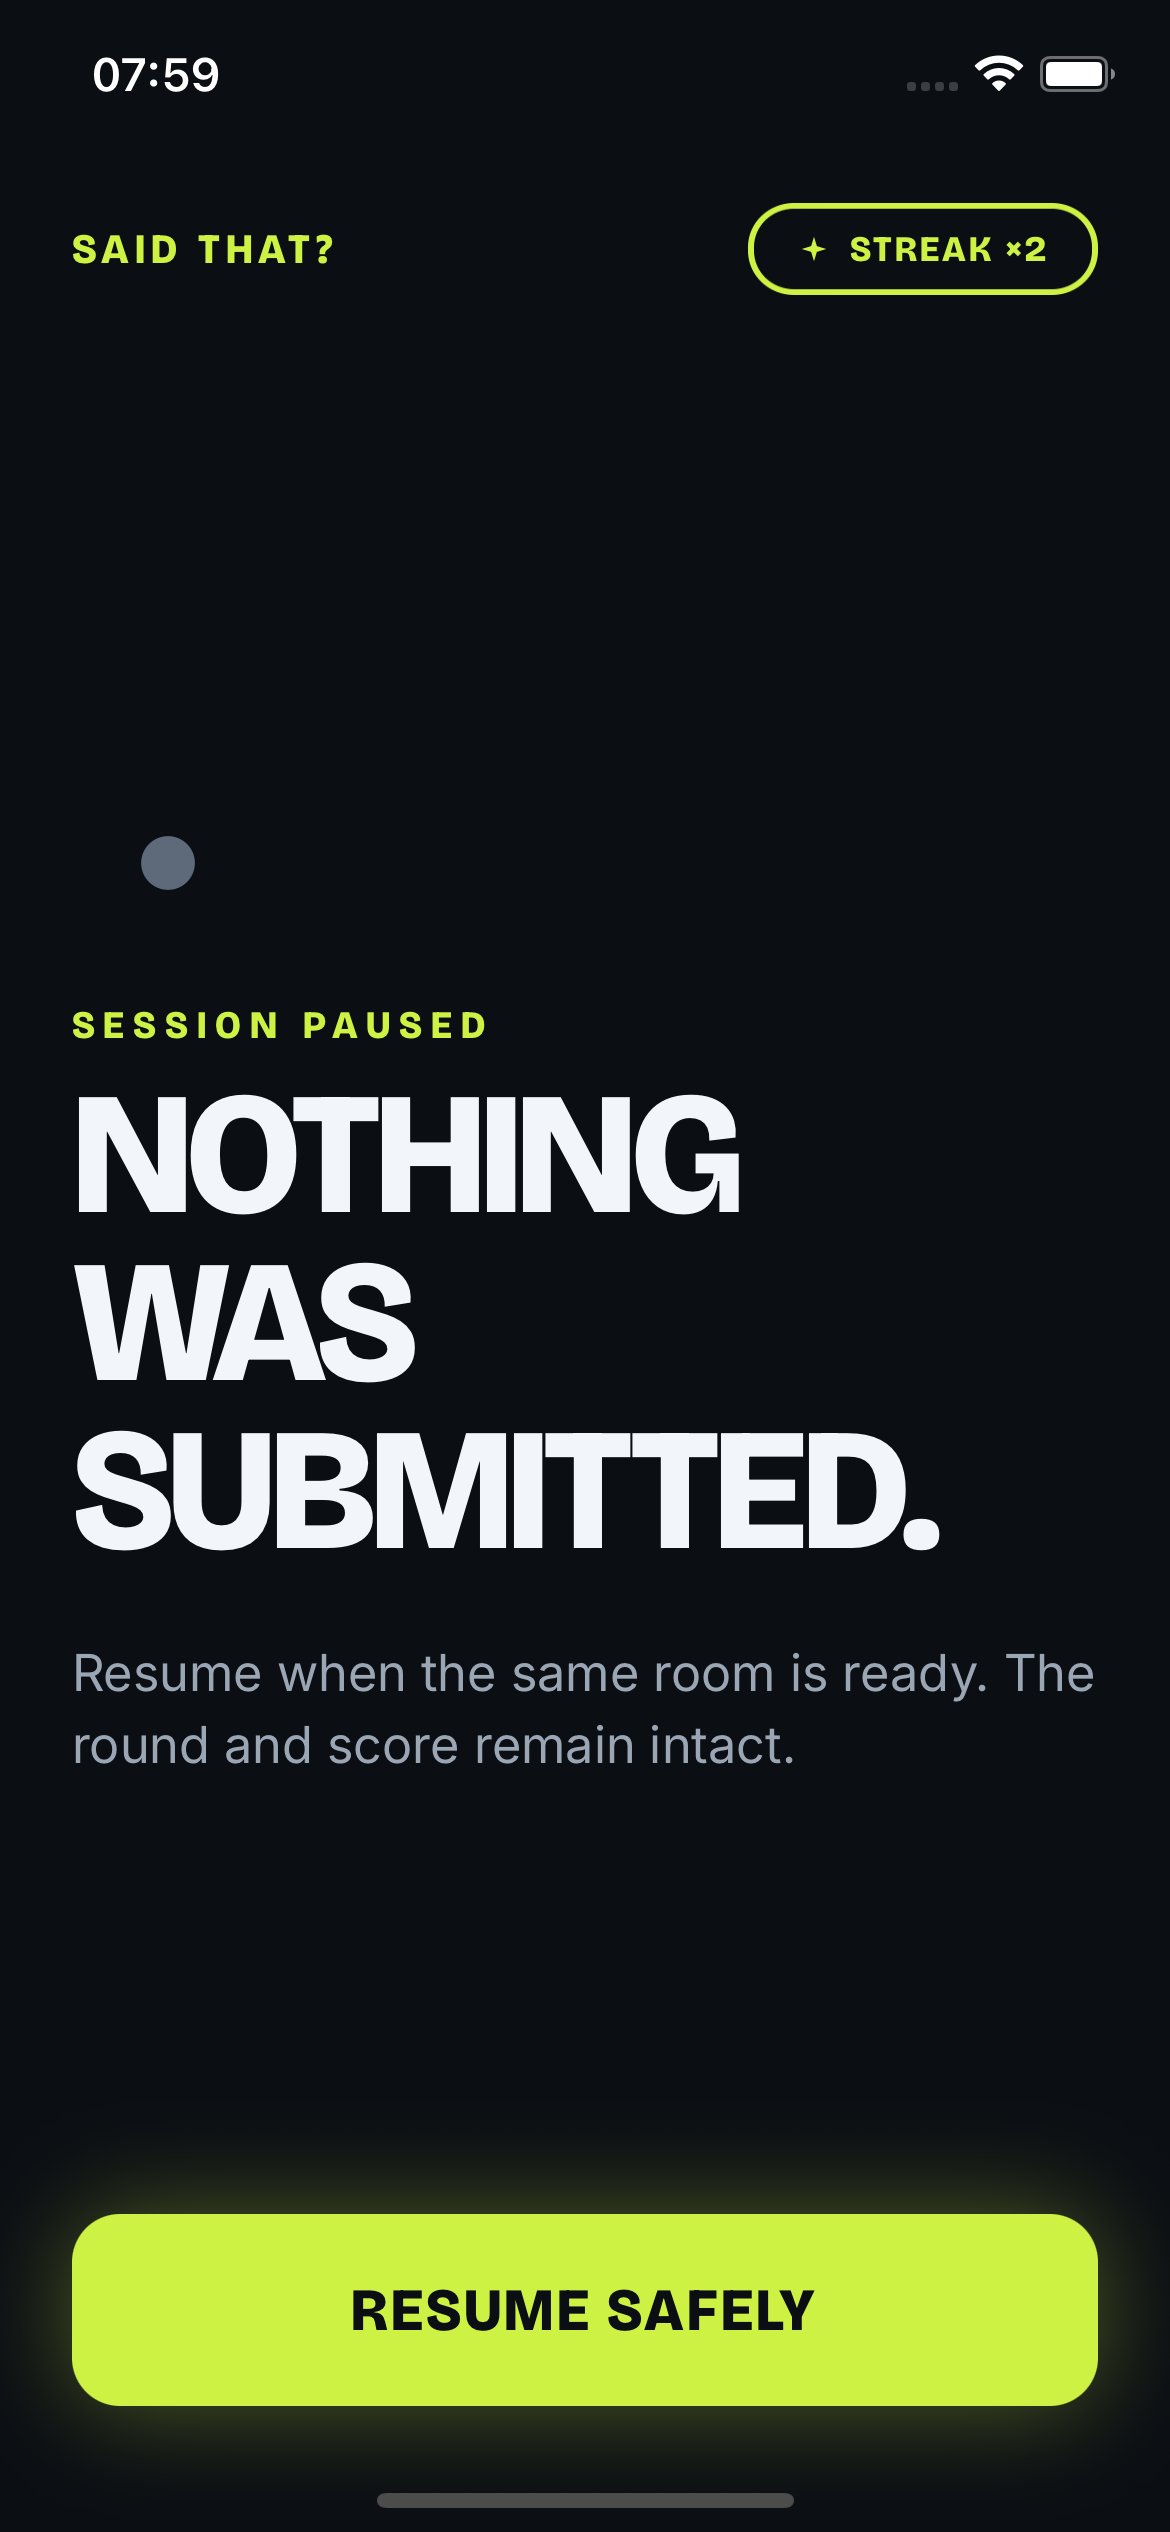
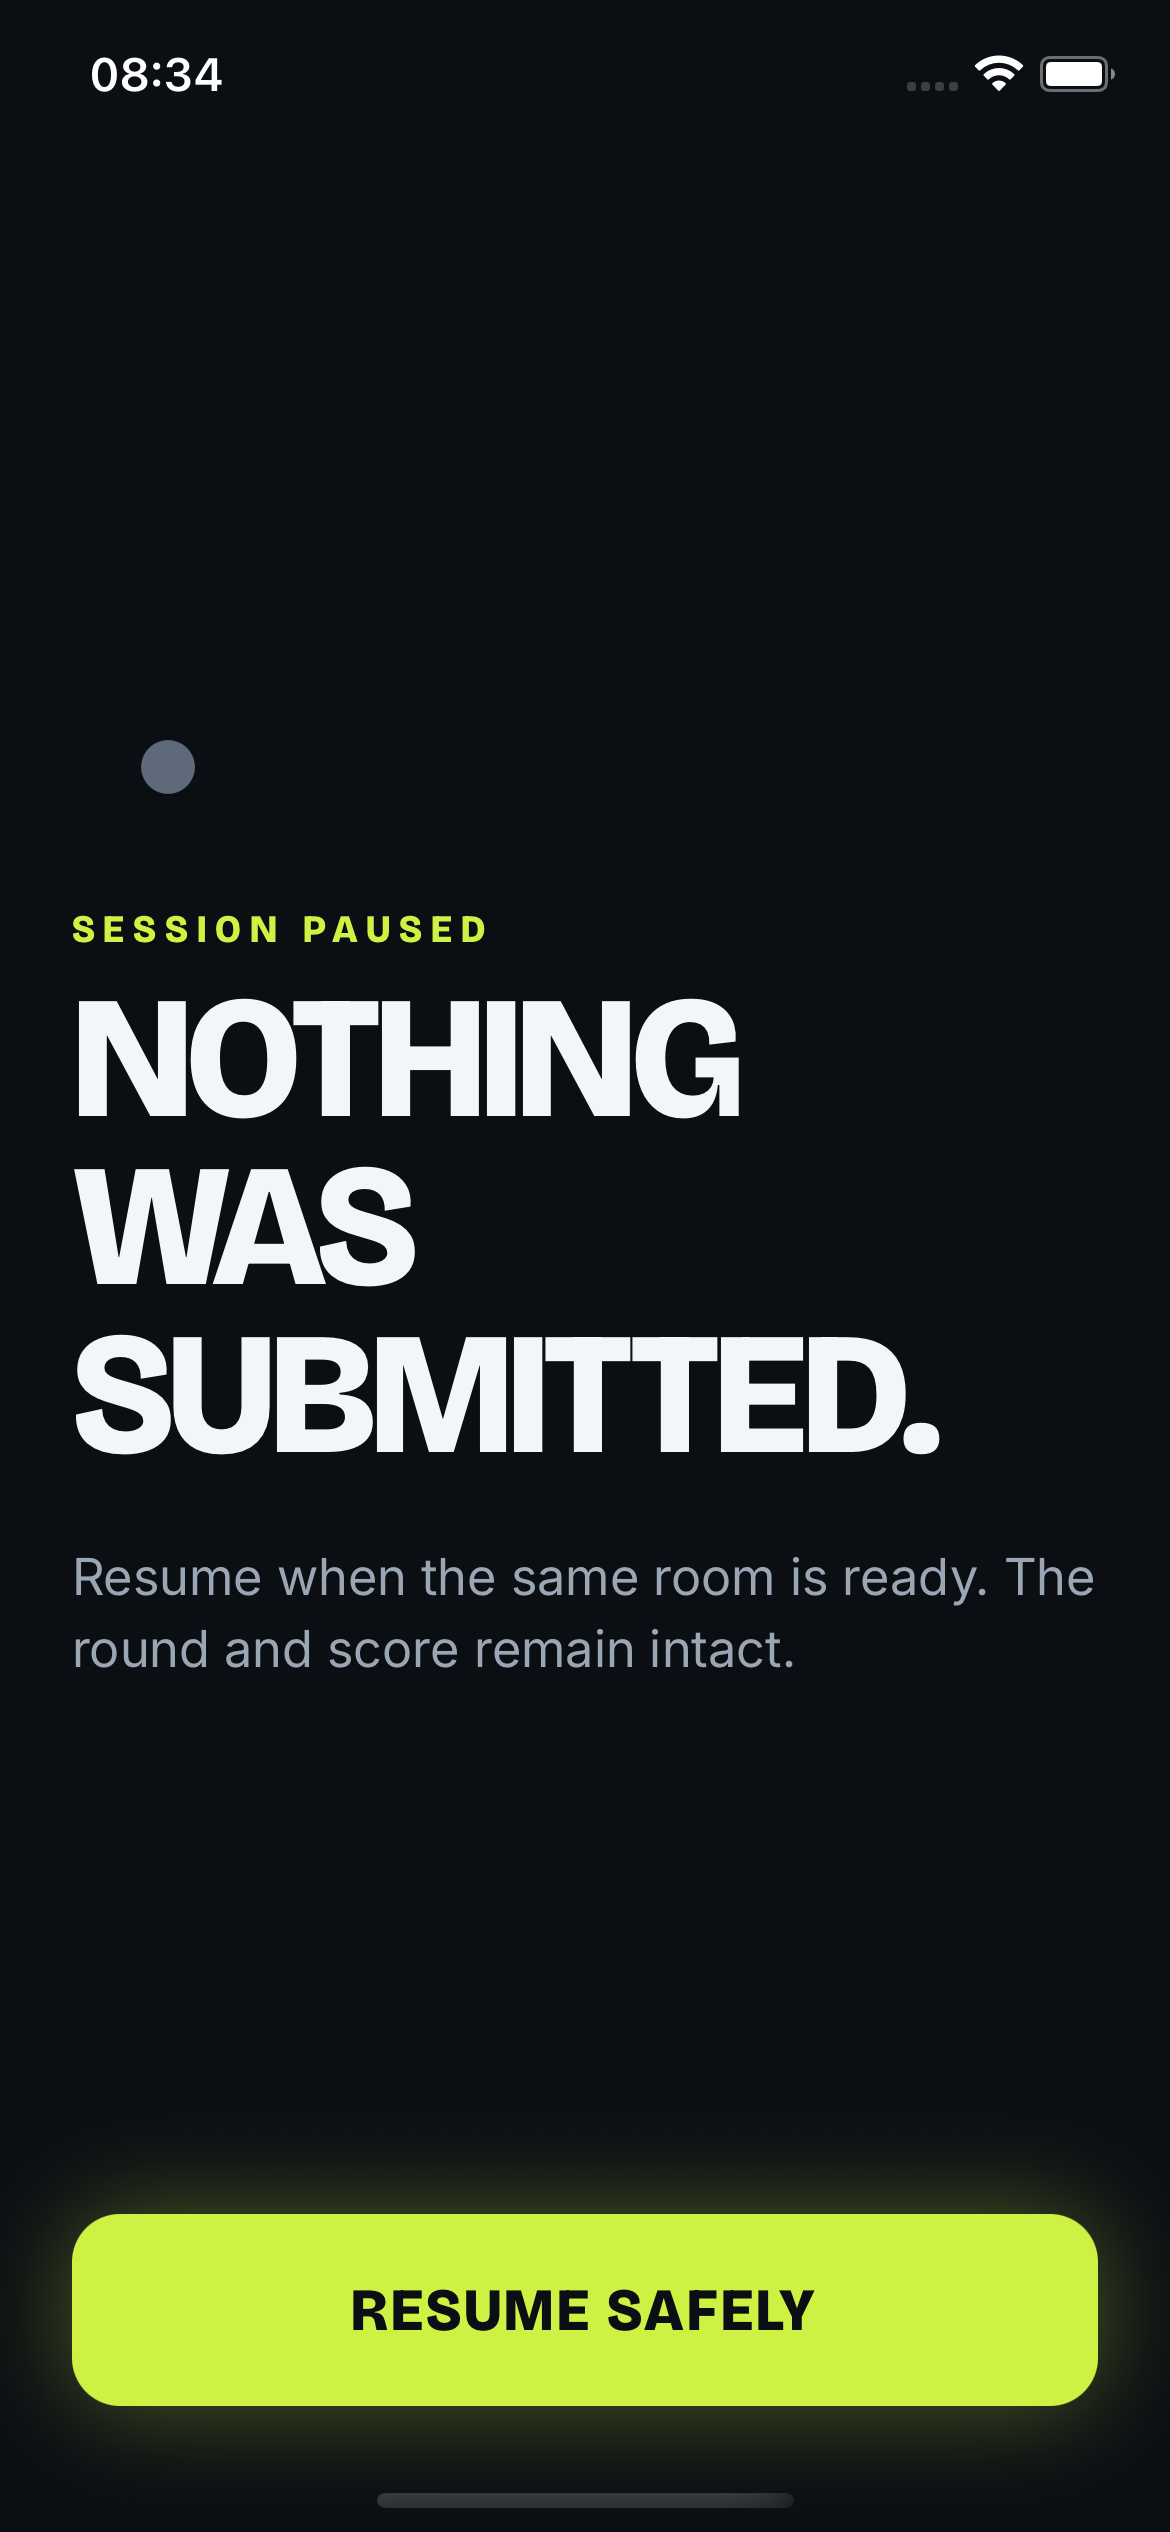
Phase 3e — the paused off-ramp loses its wordmark too
Matches the prototype, which gives Paused no header: just the centered
selection-dot MARK, SESSION PAUSED, "NOTHING WAS SUBMITTED.", and a single
RESUME SAFELY. PausedScreen itself already matched; only the chrome differed.

Worth stating rather than burying: with the wordmark gone from both Round and
Paused, a run in progress now has no route back to Home until it reaches the
recap. Pause -> resume returns to the round, and the round's only exits are
answering or pausing again. That is what the prototype specifies, and the
wordmark was a weak affordance for it anyway — if mid-run exit is wanted it
should be a deliberate control on this screen, not a logo that happens to be
tappable. Noted in the screenshot brief so it is not rediscovered as a bug.

Screenshot recaptured.

Verified: typecheck, 53/53 tests, expo export --platform ios, DesignOps gate,
and the screen inspected in the simulator.

diff --git a/apps/mobile/App.tsx b/apps/mobile/App.tsx
@@ -177,16 +177,18 @@ export default function App() {
     );
   }
 
-  // Only the result flash goes full-bleed. Four stages drop the wordmark row but
+  // Only the result flash goes full-bleed. Five stages drop the wordmark row but
   // keep their gutters: Round carries score/streak in its own top row, Recap opens
-  // on the spark MARK, and the shutter carries its own PRIVATE HANDOFF pill — with
-  // the header the concealed score pill rendered that same label a second time.
+  // on the spark MARK, the shutter carries its own PRIVATE HANDOFF pill (with the
+  // header, the concealed score pill rendered that same label a second time), and
+  // Paused is a single-purpose off-ramp whose only action is resuming the room.
   const bleed = state.stage === STAGES.RESULT;
   const showHeader = ![
     STAGES.RESULT,
     STAGES.ROUND,
     STAGES.RECAP,
     STAGES.PRIVATE_SHUTTER,
+    STAGES.PAUSED,
   ].includes(state.stage);
   const totalRounds = runLength(state);
 

diff --git a/apps/mobile/screenshots/README.md b/apps/mobile/screenshots/README.md
@@ -35,9 +35,13 @@ Two play modes:
   streak, and round numbers are chosen to show each surface at its most informative (e.g. the
   round shot carries a live streak so the lit context pill is visible). The harness is not
   committed.
-- Chrome differs by stage: Round, Result, Recap and the Private Relay shutter deliberately have
-  no wordmark row — Round carries its own round/streak pills, Result goes full-bleed, Recap opens
-  on the spark MARK, and the shutter carries its own `PRIVATE HANDOFF` pill.
+- Chrome differs by stage: Round, Result, Recap, the Private Relay shutter and Paused
+  deliberately have no wordmark row — Round carries its own round/streak pills, Result goes
+  full-bleed, Recap opens on the spark MARK, the shutter carries its own `PRIVATE HANDOFF` pill,
+  and Paused is a single-purpose off-ramp. **Consequence to be aware of:** with no wordmark on
+  Round or Paused, a run in progress has no route back to Home until it reaches the recap. That
+  matches the prototype; if mid-run exit is wanted, it needs a deliberate control, not the
+  wordmark.
 
 ## Non-negotiables (do not redesign away)
 
